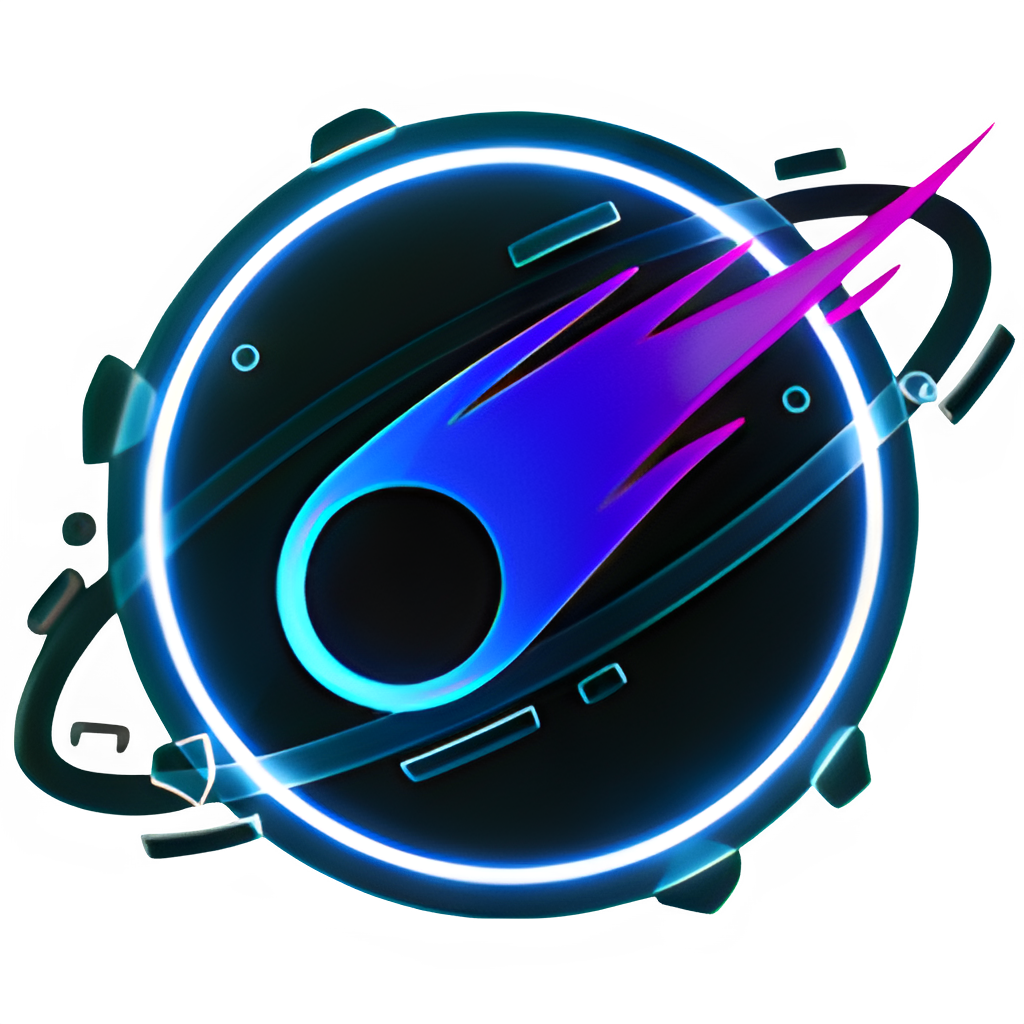
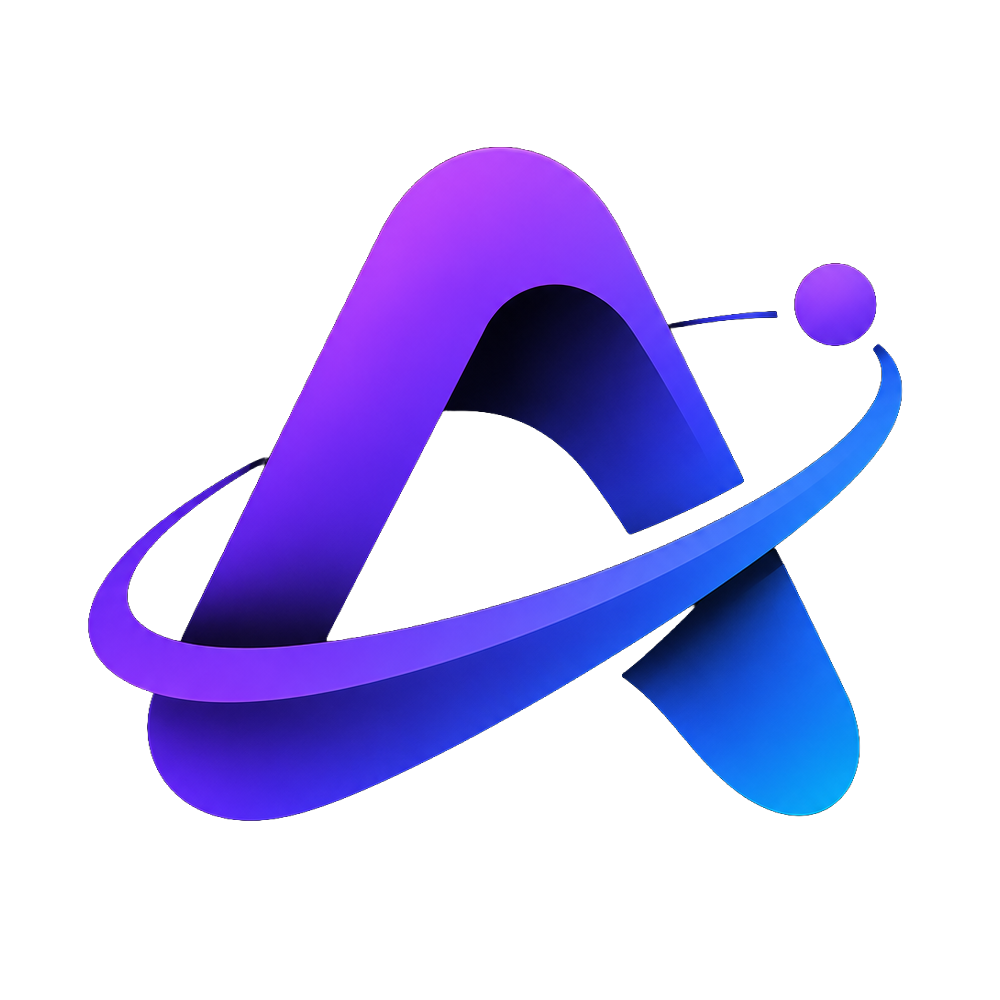
fix: separate MS Store badge from download panels layout

diff --git a/src/app/page.tsx b/src/app/page.tsx
@@ -568,26 +568,45 @@ export default function Home() {
                    <div key={i} className="animate-pulse rounded-[50px] border border-white/5 bg-white/5 p-10 h-72" />
                 ))
               )}
-              <motion.div
-                initial={{ opacity: 0, y: 20 }}
-                whileInView={{ opacity: 1, y: 0 }}
-                viewport={{ once: true }}
-                className="group relative h-72 flex flex-col items-center justify-center rounded-[50px] border border-sky-500/20 bg-sky-500/5 p-10 transition-all hover:bg-sky-500/10 hover:-translate-y-2"
-              >
-                <div dangerouslySetInnerHTML={{
-                  __html: `<ms-store-badge
-                    productid="9nd6wg2rp7cm"
-                    productname="Aartiq"
-                    window-mode="direct"
-                    theme="auto"
-                    size="large"
-                    language="en-gb"
-                    animation="on">
-                  </ms-store-badge>`
-                }} />
-              </motion.div>
-           </div>
-        </section>
+               <motion.div
+                 initial={{ opacity: 0, y: 20 }}
+                 whileInView={{ opacity: 1, y: 0 }}
+                 viewport={{ once: true }}
+                 className="group relative h-72 flex flex-col items-center justify-center rounded-[50px] border border-sky-500/20 bg-sky-500/5 p-10 transition-all hover:bg-sky-500/10 hover:-translate-y-2"
+               >
+                 <div dangerouslySetInnerHTML={{
+                   __html: `<ms-store-badge
+                     productid="9nd6wg2rp7cm"
+                     productname="Aartiq"
+                     window-mode="direct"
+                     theme="dark"
+                     size="large"
+                     language="en-gb"
+                     animation="on">
+                   </ms-store-badge>`
+                 }} />
+               </motion.div>
+            </div>
+
+            <motion.div
+              initial={{ opacity: 0, y: 20 }}
+              whileInView={{ opacity: 1, y: 0 }}
+              viewport={{ once: true }}
+              className="mt-12 flex justify-center"
+            >
+              <div dangerouslySetInnerHTML={{
+                __html: `<ms-store-badge
+                  productid="9nd6wg2rp7cm"
+                  productname="Aartiq"
+                  window-mode="direct"
+                  theme="dark"
+                  size="large"
+                  language="en-gb"
+                  animation="on">
+                </ms-store-badge>`
+              }} />
+            </motion.div>
+          </section>
 
         {/* DOCS */}
         <section id="docs" className="py-40 scroll-mt-24">

diff --git a/src/app/downloads/page.tsx b/src/app/downloads/page.tsx
@@ -115,27 +115,30 @@ export default function DownloadsPage() {
            <div className="grid lg:grid-cols-2 gap-20 items-center">
              <div>
                <h2 className="text-5xl font-black uppercase tracking-tighter mb-8 sm:text-7xl leading-none">Remote <br /> <span className="text-white/20">Control.</span></h2>
-               <p className="text-xl font-medium text-white/40 leading-relaxed max-w-xl mb-12">Install the mobile companion to authorize shell commands, schedule tasks, and view live automation PDF reports from anywhere in the world.</p>
-               
-                <div className="flex flex-wrap items-center gap-5">
-                  <div dangerouslySetInnerHTML={{
-                    __html: `<ms-store-badge
-                      productid="9nd6wg2rp7cm"
-                      productname="Aartiq"
-                      window-mode="direct"
-                      theme="auto"
-                      size="large"
-                      language="en-gb"
-                      animation="on">
-                    </ms-store-badge>`
-                  }} />
-                  <button className="flex items-center gap-4 rounded-full border border-white/10 bg-white/5 px-10 py-5 text-xs font-black uppercase tracking-[0.3em] text-white/30 transition hover:border-white/20 hover:text-white/60">
-                    <Smartphone size={18} /> Google Play
-                  </button>
-                  <button className="flex items-center gap-4 rounded-full border border-white/10 bg-white/5 px-10 py-5 text-xs font-black uppercase tracking-[0.3em] text-white/30 transition hover:border-white/20 hover:text-white/60">
-                    iOS (AltStore)
-                  </button>
-                </div>
+                <p className="text-xl font-medium text-white/40 leading-relaxed max-w-xl mb-12">Install the mobile companion to authorize shell commands, schedule tasks, and view live automation PDF reports from anywhere in the world.</p>
+
+                 <div className="mb-6">
+                   <div dangerouslySetInnerHTML={{
+                     __html: `<ms-store-badge
+                       productid="9nd6wg2rp7cm"
+                       productname="Aartiq"
+                       window-mode="direct"
+                       theme="dark"
+                       size="large"
+                       language="en-gb"
+                       animation="on">
+                     </ms-store-badge>`
+                   }} />
+                 </div>
+
+                 <div className="flex flex-wrap items-center gap-5">
+                   <button className="flex items-center gap-4 rounded-full border border-white/10 bg-white/5 px-10 py-5 text-xs font-black uppercase tracking-[0.3em] text-white/30 transition hover:border-white/20 hover:text-white/60">
+                     <Smartphone size={18} /> Google Play
+                   </button>
+                   <button className="flex items-center gap-4 rounded-full border border-white/10 bg-white/5 px-10 py-5 text-xs font-black uppercase tracking-[0.3em] text-white/30 transition hover:border-white/20 hover:text-white/60">
+                     iOS (AltStore)
+                   </button>
+                 </div>
              </div>
              
              <div className="relative aspect-video rounded-[3rem] border border-white/10 bg-[#06080f] shadow-2xl overflow-hidden group">

diff --git a/src/app/docs/getting-started/page.tsx b/src/app/docs/getting-started/page.tsx
@@ -266,24 +266,7 @@ export default function GettingStartedPage() {
             <div className="space-y-8">
               <div className="grid gap-6 sm:grid-cols-2 lg:grid-cols-4">
                 {(steps[0].content.platforms ?? []).map((platform) => (
-                  platform.name.includes("Microsoft Store") ? (
-                    <div
-                      key={platform.name}
-                      className="group flex flex-col items-center rounded-[2rem] border border-white/5 bg-white/[0.02] p-8 text-center transition-all hover:border-sky-500/30 hover:bg-sky-500/5"
-                    >
-                      <div dangerouslySetInnerHTML={{
-                        __html: `<ms-store-badge
-                          productid="9nd6wg2rp7cm"
-                          productname="Aartiq"
-                          window-mode="direct"
-                          theme="auto"
-                          size="large"
-                          language="en-gb"
-                          animation="on">
-                        </ms-store-badge>`
-                      }} />
-                    </div>
-                  ) : (
+                  platform.name.includes("Microsoft Store") ? null : (
                     <a
                       key={platform.name}
                       href="/downloads"
@@ -295,6 +278,20 @@ export default function GettingStartedPage() {
                     </a>
                   )
                 ))}
+              </div>
+
+              <div className="flex justify-center mt-8">
+                <div dangerouslySetInnerHTML={{
+                  __html: `<ms-store-badge
+                    productid="9nd6wg2rp7cm"
+                    productname="Aartiq"
+                    window-mode="direct"
+                    theme="dark"
+                    size="large"
+                    language="en-gb"
+                    animation="on">
+                  </ms-store-badge>`
+                }} />
               </div>
 
               <div className="rounded-2xl border border-white/5 bg-white/[0.02] p-6">